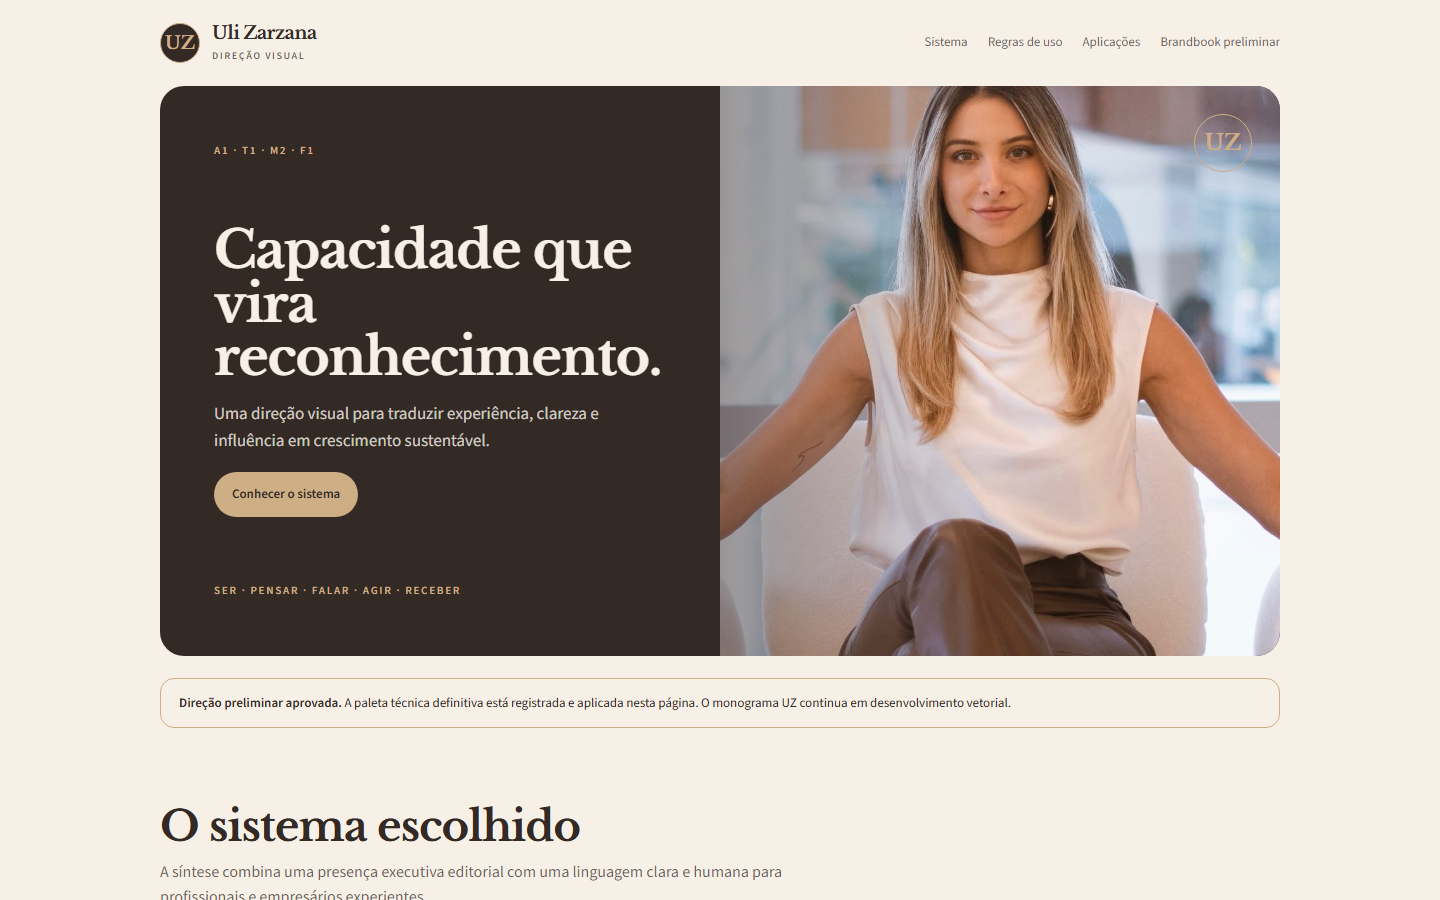
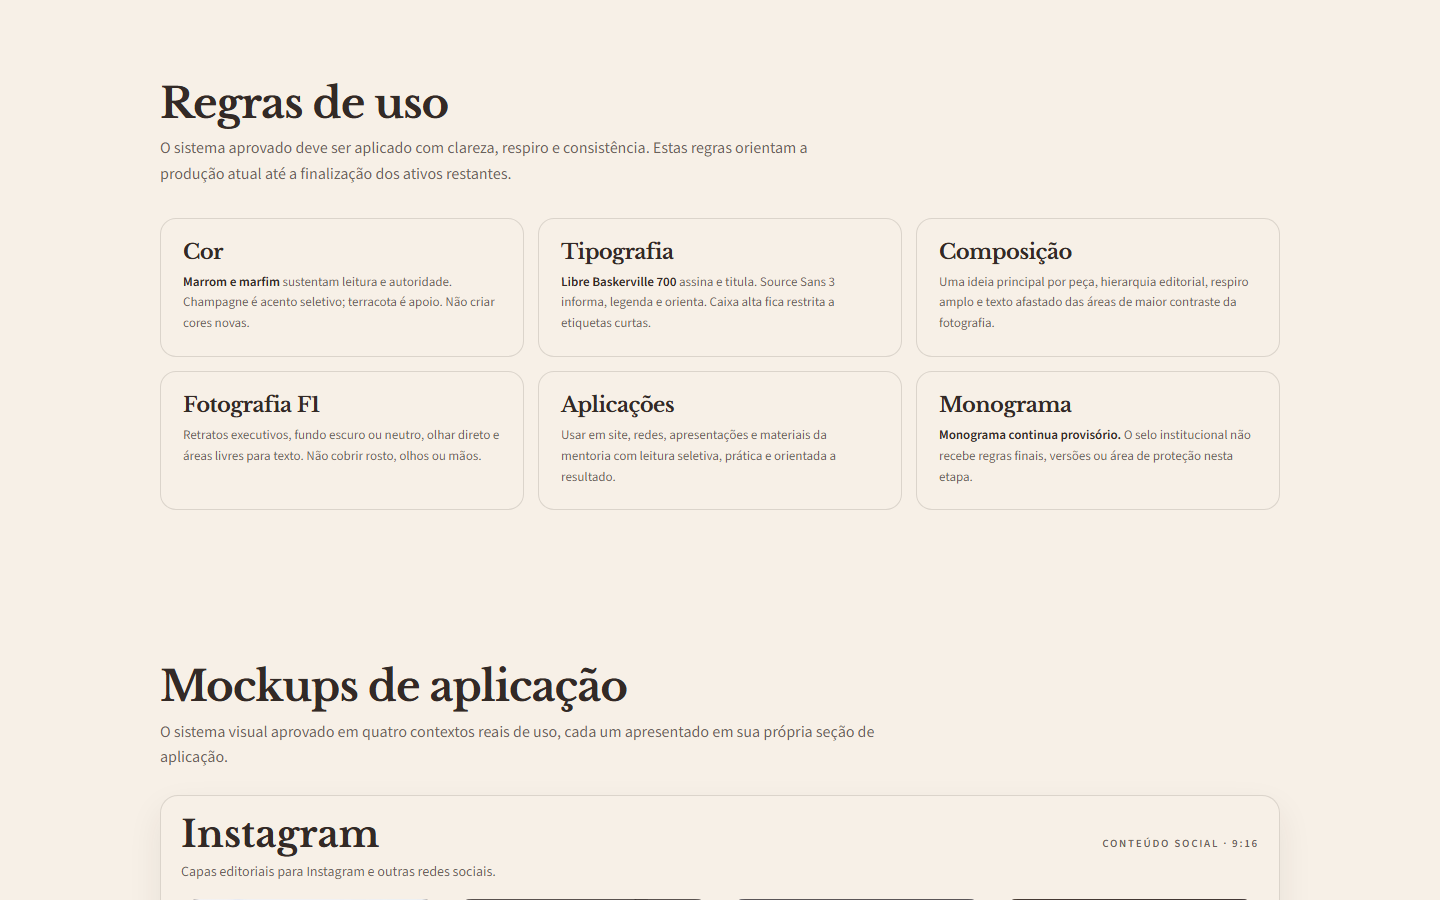
brand: crop the Uli Zarzana preview away from the client's likeness
The thumbnail framed her page's hero, which is a photograph of her. The
owners authorised use of the work, but that consent covers the work —
not her face becoming the visual of someone else's portfolio, carried
into a launch video published across every platform.

Reframed onto the "Regras de uso" section: colour, typography,
composition, monogram. That is the design system itself, which is what
the entry is evidence of. Nothing is lost by dropping the portrait.

The crop stops at y=3740; the mockup band below starts at ~3760 and
carries her photograph again.

diff --git a/src/data/client-work.ts b/src/data/client-work.ts
@@ -79,7 +79,7 @@ export const clientWork: ClientProject[] = [
     client: 'Uli Zarzana',
     scope: 'CRM · direção visual · página de captação',
     thumbnail: '/evidence/uliz-arzana.webp',
-    thumbnailAlt: 'Página de direção visual de Uli Zarzana',
+    thumbnailAlt: 'Regras de uso do sistema visual de Uli Zarzana',
     artifacts: [
       {
         label: 'CRM Uli Zarzana',
